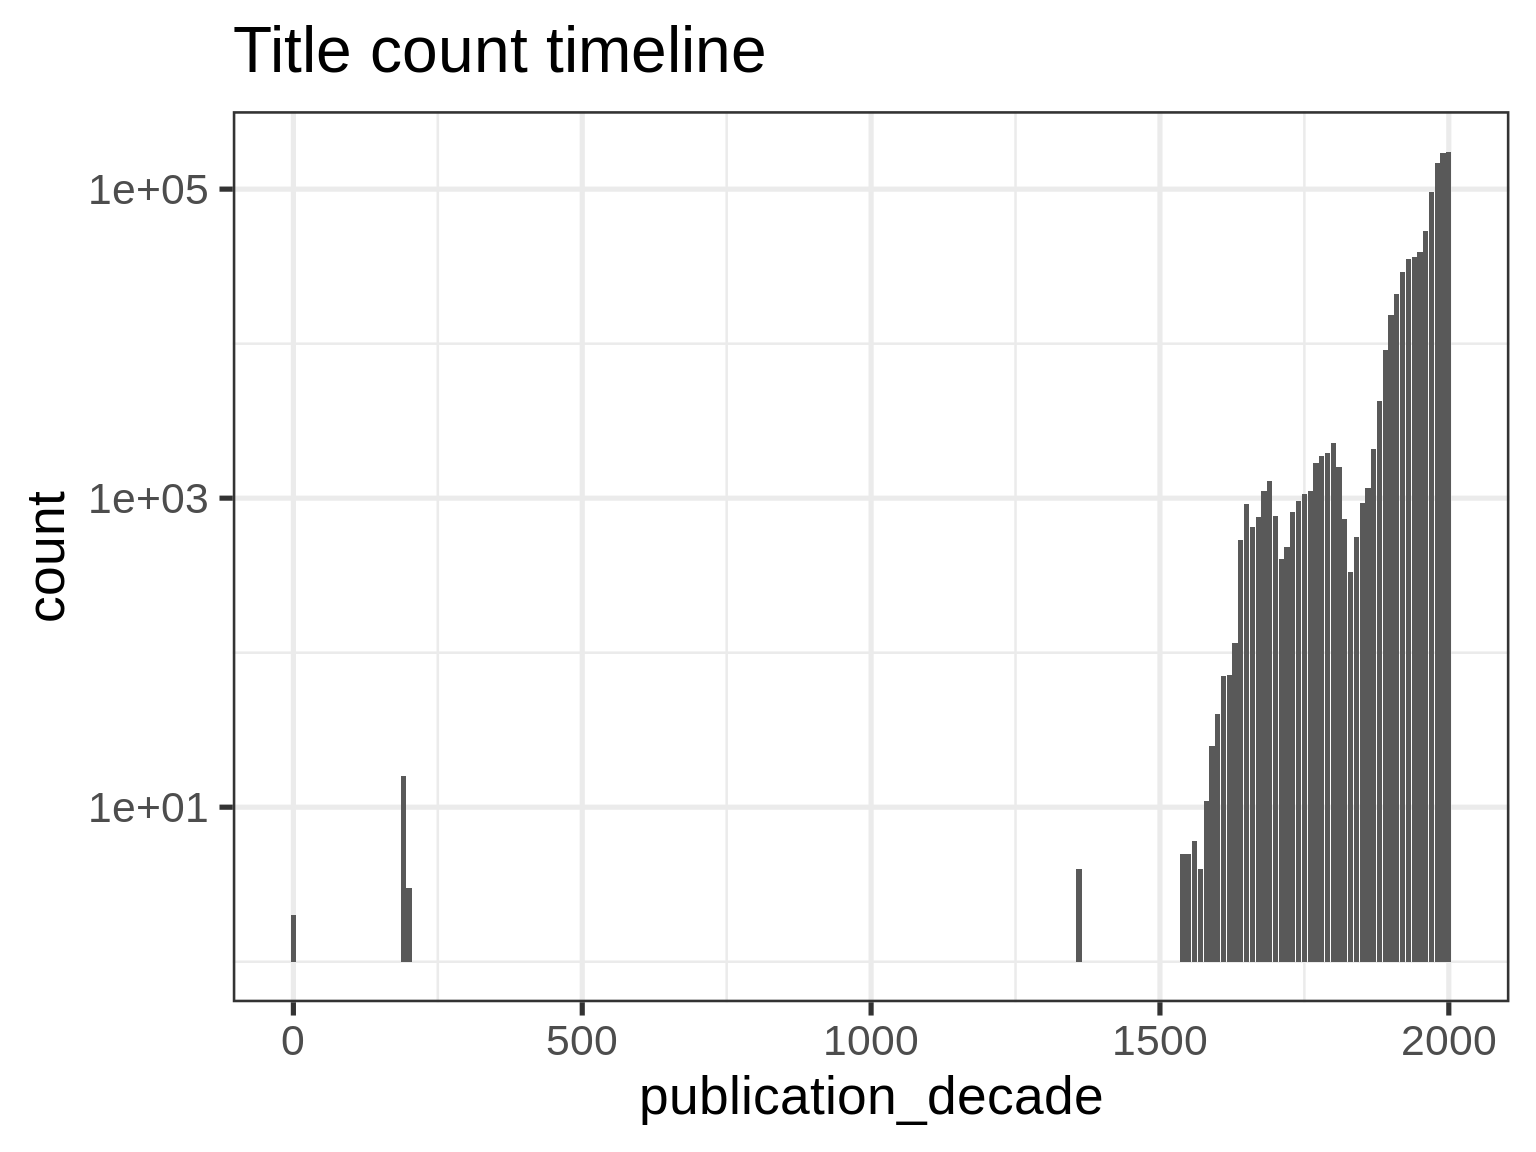
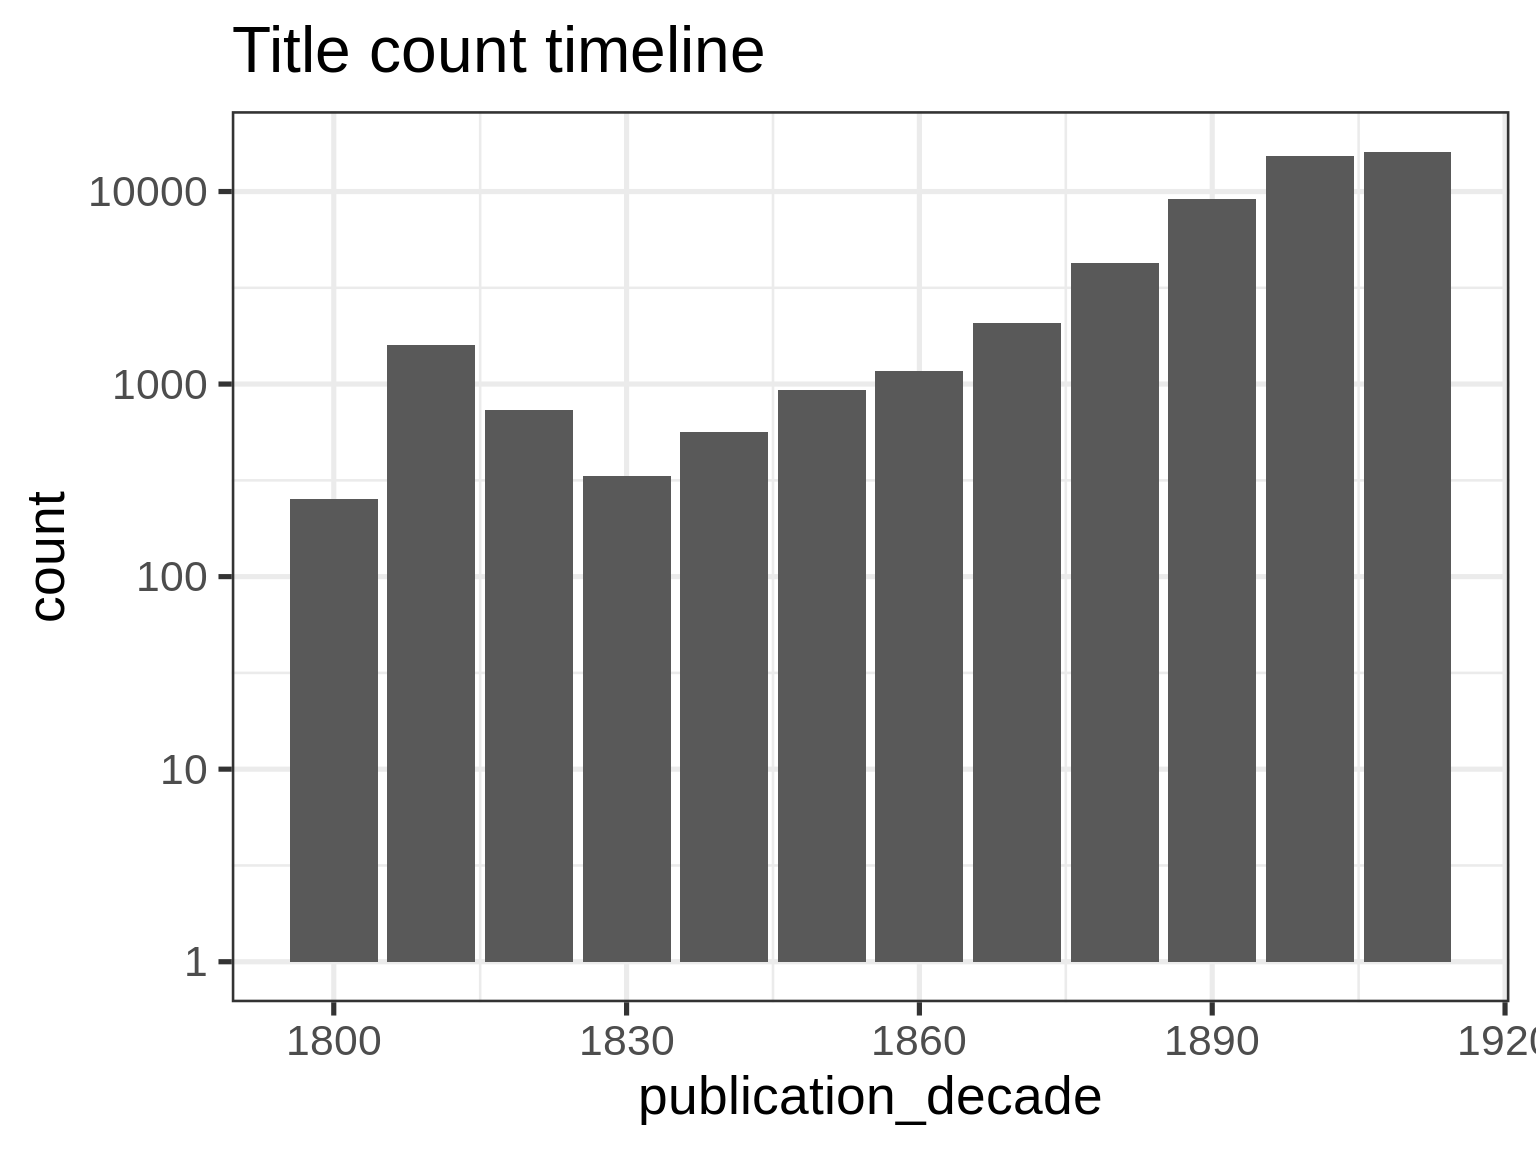
19 century book change

diff --git a/inst/examples/_book/author_name.html b/inst/examples/_book/author_name.html
@@ -125,6 +125,12 @@ ul.task-list li input[type="checkbox"] {
  <span class="menu-text"><span class="chapter-number">3</span>&nbsp; <span class="chapter-title">Author’s lifetime</span></span></a>
   </div>
 </li>
+        <li class="sidebar-item">
+  <div class="sidebar-item-container"> 
+  <a href="./publication_time.html" class="sidebar-item-text sidebar-link">
+ <span class="menu-text"><span class="chapter-number">4</span>&nbsp; <span class="chapter-title">Publication time</span></span></a>
+  </div>
+</li>
         <li class="sidebar-item sidebar-item-section">
       <div class="sidebar-item-container"> 
             <a class="sidebar-item-text sidebar-link text-start" data-bs-toggle="collapse" data-bs-target="#quarto-sidebar-section-1" aria-expanded="true">
@@ -192,28 +198,28 @@ ul.task-list li input[type="checkbox"] {
 </header>
 
 <ul>
-<li><a href="dataTable/data_table.html?path=../output.tables/author_name_accepted.csv">Unique accepted entries</a>: 196891</li>
+<li><a href="dataTable/data_table.html?path=../output.tables/author_name_accepted.csv">Unique accepted entries</a>: 9239</li>
 <li><a href="dataTable/data_table.html?path=../output.tables/author_name_discarded.csv">Unique discarded entries in original data</a> (excluding NA cases): 28</li>
-<li>Original documents with non-NA titles: 747538 / 1187813 (62.9%)</li>
-<li>Original documents with missing (NA) titles 440275 / 1187813 documents (37.1%)</li>
+<li>Original documents with non-NA titles: 33195 / 52394 (63.4%)</li>
+<li>Original documents with missing (NA) titles 19199 / 52394 documents (36.6%)</li>
 </ul>
 <p>Top-20 titles and their title counts.</p>
 <div class="cell">
 <div class="cell-output-display">
-<p><img src="figure/rmd_author_name_summarytitle-author-name-1.png" class="img-fluid" width="768"></p>
+<p><img src="author_name_files/figure-html/summarytitle-author-name-1.png" class="img-fluid" width="768"></p>
 </div>
 </div>
 <p>Frequency of unique titles:</p>
 <div class="cell">
 <div class="cell-output-display">
-<p><img src="figure/rmd_author_name_uniquetitles-author-name-1.png" class="img-fluid" width="768"></p>
+<p><img src="author_name_files/figure-html/uniquetitles-author-name-1.png" class="img-fluid" width="768"></p>
 </div>
 </div>
 <section id="authors" class="level2" data-number="2.1">
 <h2 data-number="2.1" class="anchored" data-anchor-id="authors"><span class="header-section-number">2.1</span> Authors</h2>
 <ul>
-<li>196891 <a href="dataTable/data_table.html?path=../output.tables/author_accepted.csv">unique authors</a> These final names capture all name variants from the custom <a href="dataTable/data_table.html?path=../output.tables/ambiguous-authors.csv">author synonyme table</a>, and exclude known pseudonymes (see below). If multiple names for the same author are still observed on this list, they should be added on the <a href="dataTable/data_table.html?path=../output.tables/ambiguous-authors.csv">author synonyme table</a>.</li>
-<li>747538 documents have unambiguous author information (63%).</li>
+<li>9239 <a href="dataTable/data_table.html?path=../output.tables/author_accepted.csv">unique authors</a> These final names capture all name variants from the custom <a href="dataTable/data_table.html?path=../output.tables/ambiguous-authors.csv">author synonyme table</a>, and exclude known pseudonymes (see below). If multiple names for the same author are still observed on this list, they should be added on the <a href="dataTable/data_table.html?path=../output.tables/ambiguous-authors.csv">author synonyme table</a>.</li>
+<li>33195 documents have unambiguous author information (63%).</li>
 <li>10 <a href="dataTable/data_table.html?path=../output.tables/pseudonyme_accepted.csv">unique pseudonymes</a> are recognized based on <a href="dataTable/data_table.html?path=../output.tables/custom_pseudonymes.csv">custom pseudonyme lists</a>.</li>
 <li>20 <a href="dataTable/data_table.html?path=../output.tables/author_discarded.csv">discarded author names</a> This list should not include any real authors (if it does, please send a note to the admin). The stopword lists are considered when discarding names.</li>
 <li><a href="dataTable/data_table.html?path=../output.tables/author_conversion_nontrivial.csv">Author name conversions</a> Non-trivial conversions from the original raw data to final names.</li>
@@ -229,7 +235,7 @@ ul.task-list li input[type="checkbox"] {
 <p>Top-20 uniquely identified authors and their productivity (title count).</p>
 <div class="cell">
 <div class="cell-output-display">
-<p><img src="figure/rmd_author_name_summaryauthorsnames-1.png" class="img-fluid" width="1152"></p>
+<p><img src="author_name_files/figure-html/summaryauthorsnames-1.png" class="img-fluid" width="1152"></p>
 </div>
 </div>
 </section>

diff --git a/inst/examples/_book/author_date.html b/inst/examples/_book/author_date.html
@@ -31,7 +31,7 @@ ul.task-list li input[type="checkbox"] {
 <script src="site_libs/quarto-search/fuse.min.js"></script>
 <script src="site_libs/quarto-search/quarto-search.js"></script>
 <meta name="quarto:offset" content="./">
-<link href="./acknowledgments.html" rel="next">
+<link href="./publication_time.html" rel="next">
 <link href="./author_name.html" rel="prev">
 <script src="site_libs/quarto-html/quarto.js"></script>
 <script src="site_libs/quarto-html/popper.min.js"></script>
@@ -125,6 +125,12 @@ ul.task-list li input[type="checkbox"] {
  <span class="menu-text"><span class="chapter-number">3</span>&nbsp; <span class="chapter-title">Author’s lifetime</span></span></a>
   </div>
 </li>
+        <li class="sidebar-item">
+  <div class="sidebar-item-container"> 
+  <a href="./publication_time.html" class="sidebar-item-text sidebar-link">
+ <span class="menu-text"><span class="chapter-number">4</span>&nbsp; <span class="chapter-title">Publication time</span></span></a>
+  </div>
+</li>
         <li class="sidebar-item sidebar-item-section">
       <div class="sidebar-item-container"> 
             <a class="sidebar-item-text sidebar-link text-start" data-bs-toggle="collapse" data-bs-target="#quarto-sidebar-section-1" aria-expanded="true">
@@ -183,7 +189,7 @@ ul.task-list li input[type="checkbox"] {
 
 <p><a href="dataTable/data_table.html?path=../output.tables/author_date_accepted.csv">Author date accepted</a></p>
 <p><a href="dataTable/data_table.html?path=../output.tables/author_date_discarded.csv">Author date discarded</a></p>
-<p>Author’s lifetime is available for 150930 authors (13%). The lifetime years span 1, 106. The youngest being 17 years old and the oldest 99 years old.</p>
+<p>Author’s lifetime is available for 19971 authors (38%). The lifetime years span 18, 105. The youngest being 17 years old and the oldest 99 years old.</p>
 
 
 
@@ -543,8 +549,8 @@ window.document.addEventListener("DOMContentLoaded", function (event) {
       </a>          
   </div>
   <div class="nav-page nav-page-next">
-      <a href="./acknowledgments.html" class="pagination-link">
-        <span class="nav-page-text">Acknowledgements</span> <i class="bi bi-arrow-right-short"></i>
+      <a href="./publication_time.html" class="pagination-link">
+        <span class="nav-page-text"><span class="chapter-number">4</span>&nbsp; <span class="chapter-title">Publication time</span></span> <i class="bi bi-arrow-right-short"></i>
       </a>
   </div>
 </nav>

diff --git a/inst/examples/_book/publication_time.html b/inst/examples/_book/publication_time.html
@@ -197,7 +197,7 @@ ul.task-list li input[type="checkbox"] {
 <h1 data-number="5"><span class="header-section-number">5</span> Publication year summaries (publication time)</h1>
 <p><a href="dataTable/data_table.html?path=../output.tables/publication_time_conversion.csv">Publication year conversions</a></p>
 <p><a href="dataTable/data_table.html?path=../output.tables/publication_time_discarded.csv">Publication year discarded</a></p>
-<p>Publication year is available for 957662 documents (81%). The publication years span 0-1.97919801985199e+27.</p>
+<p>Publication year is available for 52394 documents (100%). The publication years span 1809-1917.</p>
 <div class="cell">
 <div class="cell-output-display">
 <p><img src="publication_time_files/figure-html/summarypublicationyear-1.png" class="img-fluid" width="768"></p>
